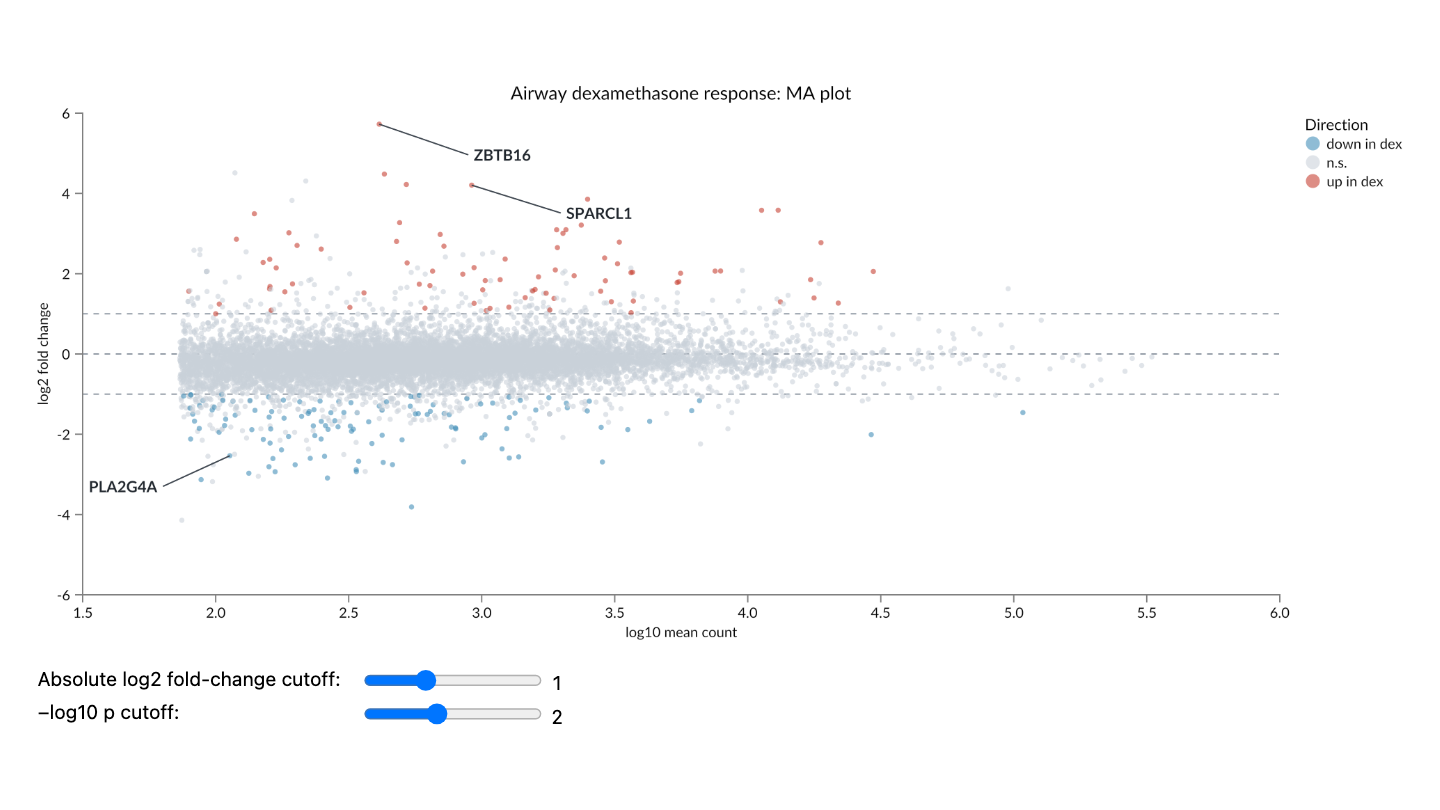
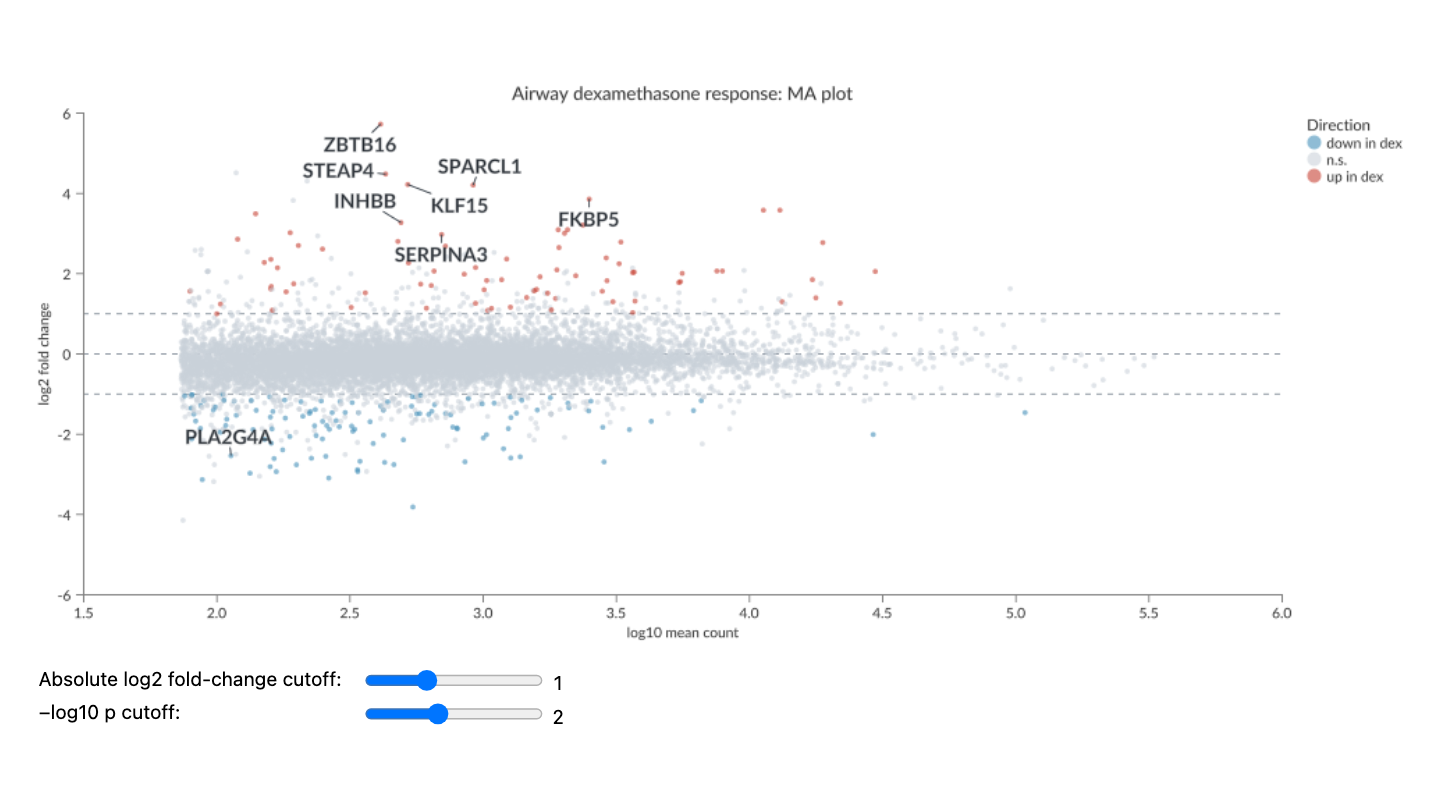
docs(gallery): explain adaptive airway labels concisely

diff --git a/docs/examples/airway_ma_plot.md b/docs/examples/airway_ma_plot.md
@@ -3,6 +3,11 @@ for calling a gene changed. The fold-change guides move, and genes passing both
 cutoffs are recolored immediately. The p-value cutoff has no line because an MA
 plot has no p-value axis.
 
+Python selects eight gene labels to illustrate crowded annotations. In the
+browser, [`displace2d`](https://genomespy.app/docs/grammar/transform/displace2d/)
+separates the labels and connects them to their points. Zoom in to see the layout
+adapt; the labeled genes are illustrative, not a significance ranking.
+
 :::{admonition} Data use and provenance
 :class: note
 
@@ -15,6 +20,6 @@ with attribution and license details in the
 <a href="../THIRD_PARTY_NOTICES.md">third-party notices</a>. During data
 loading, the package filters genes, computes paired treated-versus-control
 log-count tests and Benjamini-Hochberg adjusted p-values, and selects the genes
-to plot. GenomeSpy then renders the prepared table and applies the interactive
-classification in the browser.
+to plot. Gene symbols were checked against Ensembl. GenomeSpy then renders
+the prepared table and applies the interactive classification in the browser.
 :::

diff --git a/docs/examples/airway_volcano_plot.md b/docs/examples/airway_volcano_plot.md
@@ -2,6 +2,11 @@ The sliders control the minimum absolute fold change and p-value evidence.
 Genes that pass both cutoffs become red or blue, and the guide lines move to
 show the active boundaries.
 
+Python selects eight gene labels to illustrate crowded annotations. In the
+browser, [`displace2d`](https://genomespy.app/docs/grammar/transform/displace2d/)
+separates the labels and connects them to their points. Zoom in to see the layout
+adapt; the labeled genes are illustrative, not a significance ranking.
+
 :::{admonition} Data use and provenance
 :class: note
 
@@ -14,6 +19,6 @@ with attribution and license details in the
 <a href="../THIRD_PARTY_NOTICES.md">third-party notices</a>. During data
 loading, the package filters genes, computes paired treated-versus-control
 log-count tests and Benjamini-Hochberg adjusted p-values, and selects the genes
-to plot. GenomeSpy then renders the prepared table and applies the interactive
-classification in the browser.
+to plot. Gene symbols were checked against Ensembl. GenomeSpy then renders
+the prepared table and applies the interactive classification in the browser.
 :::

diff --git a/CHANGELOG.md b/CHANGELOG.md
@@ -18,6 +18,9 @@ and this project adheres to [Semantic Versioning](https://semver.org/spec/v2.0.0
 
 ### Changed
 
+- Use browser-side `displace2d` label placement in the airway volcano and MA
+  gallery plots, with denser gene annotations and adaptive leader lines.
+
 - Reorganize the gallery into 13 categories, separating regulatory model
   interpretation, read alignments and RNA splicing, sequences and alignments,
   and interaction examples from the broader browser, annotation, and basic groups.
